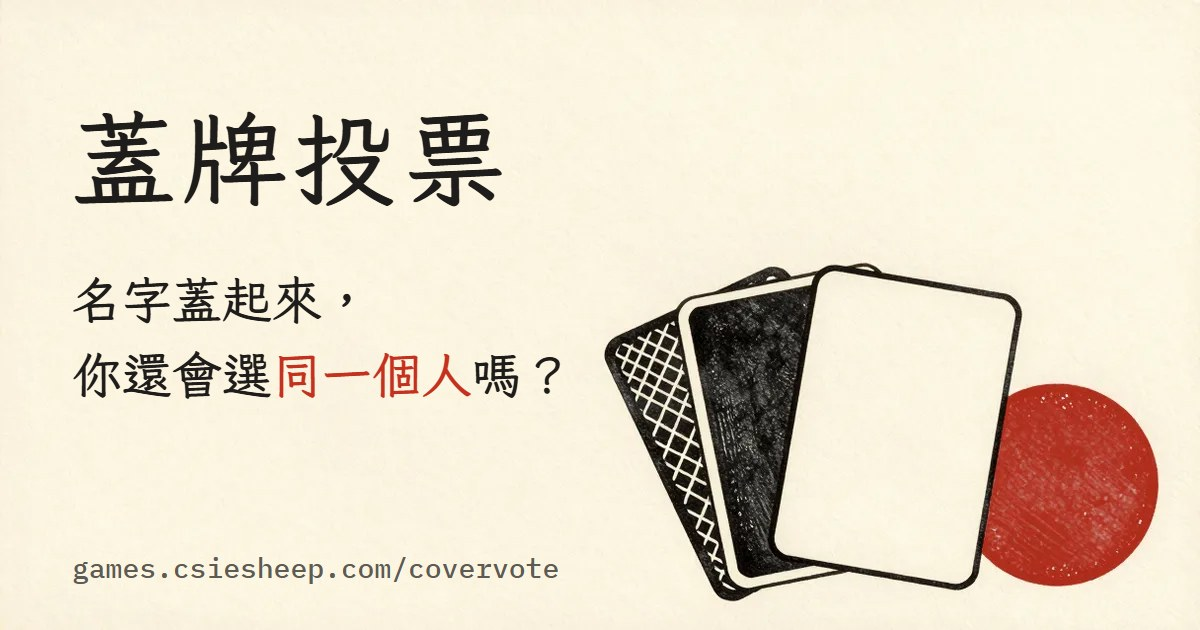
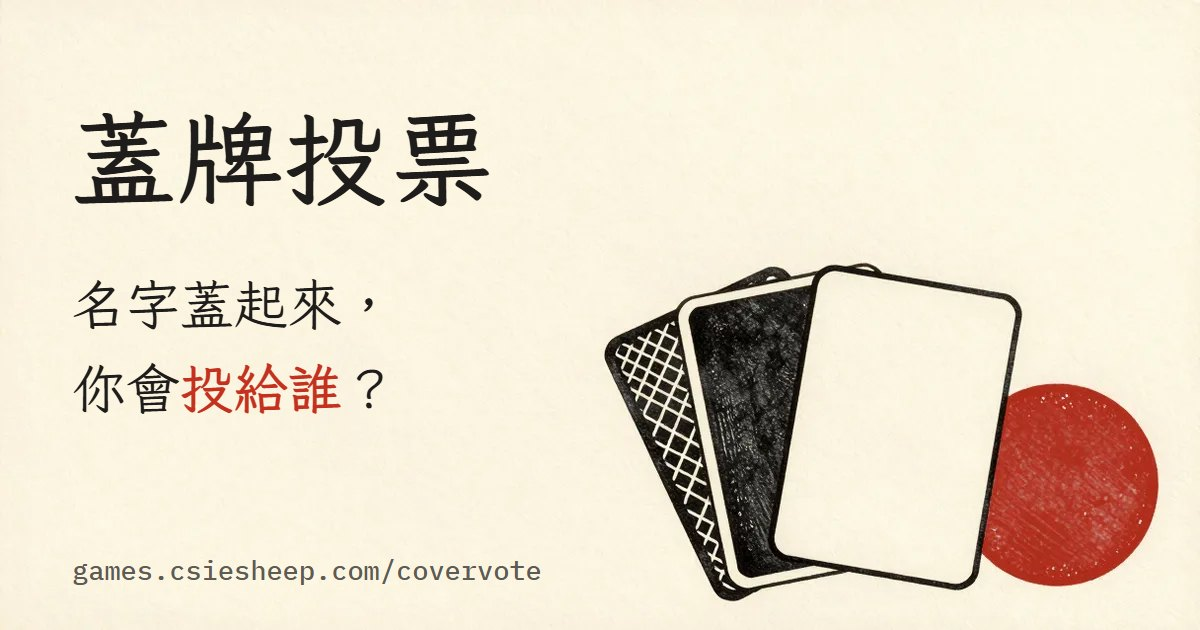
FE #21: Google Analytics (4 no-load cases, flow-only events), privacy page copy and opt-out, new slogan + og.jpg, play-page issue row, speak button in card head

Changed region(s): [[0.0617, 0.4222, 0.4625, 0.6635], [0.1542, 0.181, 0.4317, 0.3317], [0.0617, 0.8746, 0.4625, 0.9349]]

diff --git a/site/app.js b/site/app.js
@@ -2,7 +2,7 @@
 //
 // 約束（issue #3）：
 //  - 開票前不 fetch reveal/（只在 revealNow() 裡，由「開票」按鈕觸發）；DOM 與 localStorage 都沒有作者。
-//  - 傾向、分數、猜作者只存本機（store.js）。不載入任何分析或錄製腳本。
+//  - 傾向、分數、猜作者只存本機（store.js）。不載入錄製腳本；Google Analytics 只在 analytics.js 的條件下載入，事件不帶任何政治資料（#21）。
 //  - 分數一律呼叫 engine/score.mjs，FE 不自己算。候選人的鍵是姓名。
 import { t, initLang, lang, has } from './i18n.js';
 import { raceIdOf, MIN_CLASS, TILES, METRO_KEYS, METRO_ETA, CEC_URL, FULL_URL } from './config.js';
@@ -10,6 +10,7 @@ import { initInternal, initClass, initFontSize, fontSize, setFontSize, FS_SIZES,
 import { initSound, isSoundOn, setSound, sfx } from './sound.js';
 import { hasVoice, syncSpeak, toggleSpeak, stopSpeaking } from './speech.js';
 import { postGuess, postPlay, getHealth, getStats, getClass } from './api.js';
+import { initAnalytics, trackPage, track, isOptedOut, setOptOut } from './analytics.js';
 import { loadRace, loadIssues, fetchReveal, buildPlan, menuOrder, mulberry32, NotFound, initVersion } from './data.js';
 
 initInternal();
@@ -17,6 +18,7 @@ initClass();
 initFontSize();
 initLang();
 initSound();
+initAnalytics();
 // 嵌入模式（?embed=1）：沒有品牌列與頁尾連結，只留一行「完整版 ↗」；聲音維持預設關（initSound 不看這個旗標）。
 // 嵌入模式不改變任何資料流：開票前不 fetch reveal/、guess 先於 reveal、internal=1 照樣生效，都在同一份程式裡。
 const EMBED = isEmbed();
@@ -99,7 +101,7 @@ function parse(){
   return seg;
 }
 const go = hash => { location.hash = hash; };
-let renderSeq = 0, cleanup = null;
+let renderSeq = 0, cleanup = null, lastPv = null;
 
 async function render(){
   const seq = ++renderSeq;
@@ -117,6 +119,8 @@ async function render(){
   const main = document.getElementById('main'); if (main) main.focus({ preventScroll: true });
   if (out.mount) cleanup = out.mount(root) || null;
   syncSpeak(root);
+  const pv = location.hash;
+  if (pv !== lastPv){ lastPv = pv; trackPage(); }   // 只在路由真的換了才算一次瀏覽（字級、重試的重畫不算）
 }
 
 async function route(seg){
@@ -327,9 +331,8 @@ function cardHtml(c, p, i, { guess, tag }) {
   const mode = textMode();
   const text = mode === 'masked' ? p.masked : p.plain;
   return `<div class="pcard" data-pid="${esc(p.id)}" >
-    <div class="pcard-head"><span class="seat" aria-label="${esc(seatOf(i))}">${esc(seatOf(i))}</span>${tag ? `<span class="tag">${esc(tag)}</span>` : ''}<span class="muted num" data-len>${esc(t('play.chars', { n: [...text].length }))}</span></div>
+    <div class="pcard-head"><span class="headl"><span class="seat" aria-label="${esc(seatOf(i))}">${esc(seatOf(i))}</span>${speakBtn(t('speak.btn'), `data-pid="${esc(p.id)}" aria-label="${esc(t('speak.btn') + ' · ' + seatOf(i))}"`)}</span><span class="headr">${tag ? `<span class="tag">${esc(tag)}</span>` : ''}<span class="muted num" data-len>${esc(t('play.chars', { n: [...text].length }))}</span></span></div>
     <div class="pcard-body" data-body>${renderText(text)}</div>
-    <div class="speakrow">${speakBtn(t('speak.btn'), `data-pid="${esc(p.id)}" aria-label="${esc(t('speak.btn') + ' · ' + seatOf(i))}"`)}</div>
     ${rateButtons(c, p, t('play.cardOf', { seat: seatOf(i) }))}
     ${guess ? guessBlock(c, p) : ''}
   </div>`;
@@ -348,8 +351,7 @@ function viewRound(c, n){
   const last = n === rounds.length;
   const body = `
     ${roundSteps(c, n - 1)}
-    <div class="row between"><div class="eyebrow">${esc(t('play.issue'))}</div>${toggleHtml()}</div>
-    <h1 class="mid">${esc(issueLabel(c, r.issueId))}</h1>
+    <div class="issuerow"><h1 class="mid">${esc(issueLabel(c, r.issueId))}</h1>${toggleHtml()}</div>
     ${r.cards.map((p, i) => cardHtml(c, p, i, { guess: true })).join('')}
     <div class="btns"><a class="btn ghost" href="${n > 1 ? `#/${c.key}/play/${n - 1}` : `#/${c.key}/lean`}" style="flex:0 0 38%">${esc(t('play.back'))}</a><a class="btn" id="nextbtn" data-act="next-round" data-n="${n}" href="${nextHash(c, n)}" ${roundDone(c, r) ? '' : 'aria-disabled="true"'}>${esc(last ? t('play.nextLast') : t('play.next'))}</a></div>
     <p class="muted" style="text-align:center" id="roundhint">${roundDone(c, r) ? '' : esc(t('play.hint')) + ' · '}<button class="linkbtn" data-act="skip-round" data-n="${n}">${esc(t('play.skip'))}</button></p>`;
@@ -414,6 +416,7 @@ async function revealNow(c, btn){
     return;
   }
   c.st.done = true; save(c);
+  track('reveal', c.key);
   go(`#/${c.key}/reveal`);
 }
 
@@ -872,7 +875,8 @@ function viewInfo(tab){
   if (tab === 'about') content = `<h1 class="mid">${esc(t('info.about.title'))}</h1><p style="font-size:14px">${esc(t('info.about.body'))}</p>`;
   if (tab === 'privacy') content = `<h1 class="mid">${esc(t('info.privacy.title'))}</h1><table><tr><th>${esc(t('info.privacy.th1'))}</th><th>${esc(t('info.privacy.th2'))}</th></tr>`
     + [1, 2, 3, 4].map(i => `<tr><td>${esc(t('info.privacy.r' + i + 'a'))}</td><td>${esc(t('info.privacy.r' + i + 'b'))}</td></tr>`).join('')
-    + `</table><p class="muted">${esc(t('info.privacy.fonts'))}</p><p class="muted">${esc(t('info.privacy.note'))}</p>`;
+    + `</table><p class="muted">${esc(t('info.privacy.fonts'))}</p><p class="muted">${esc(t('info.privacy.note'))}</p>`
+    + `<button type="button" class="btn ghost" data-act="optout" aria-pressed="${isOptedOut()}">${esc(t('info.privacy.optout'))}</button><p class="muted" role="status" id="optoutmsg">${isOptedOut() ? esc(t('info.privacy.optoutOn')) : ''}</p>`;
   return { html: page(bar(t('brand'), t('info.meta')), `<div class="row">${chips}</div>${content}<a class="btn ghost" href="#/">${esc(t('common.home'))}</a>`, footer()) };
 }
 
@@ -906,7 +910,7 @@ async function viewMedia(){
     <div class="eyebrow">${esc(t('media.previewTitle'))}</div>
     <iframe id="mediaprev" class="prev" src="${esc(src)}" title="${esc(t('media.iframeTitle'))}" loading="lazy"></iframe>
     <div class="eyebrow">${esc(t('media.contactTitle'))}</div>
-    <p>${esc(t('media.contactBody'))}<span class="num">${esc(t('media.contactMail'))}</span> <span class="muted">${esc(t('media.contactTodo'))}</span></p>`;
+    <p>${esc(t('media.contactBody'))}<span class="num">${esc(t('media.contactMail'))}</span></p>`;
   return {
     html: page(bar(t('brand'), t('media.meta')), body + `<a class="btn ghost" href="#/">${esc(t('common.home'))}</a>`, footer()),
     mount(el){
@@ -971,7 +975,7 @@ root.addEventListener('click', async e => {
       break;
     }
     case 'pick': {
-      homePick = el.dataset.key; sfx('tap');
+      homePick = el.dataset.key; sfx('tap'); track('select_city', homePick);
       setPressed([...root.querySelectorAll('.tile.live')], b => b.dataset.key === homePick);
       const sb = document.getElementById('startbtn'); sb.textContent = startLabel(); sb.removeAttribute('aria-disabled'); sb.href = '#/' + homePick;
       showPlays();
@@ -1009,7 +1013,10 @@ root.addEventListener('click', async e => {
     case 'more': {
       root.querySelectorAll('[data-more]').forEach(n => n.hidden = false); el.hidden = true; break;
     }
-    case 'lean-next': sfx('shuffle'); break;
+    case 'lean-next': sfx('shuffle'); if (c) track('game_start', c.key); break;
+    case 'download': if (c && el.getAttribute('aria-disabled') !== 'true') track('share', c.key); break;
+    case 'line': if (c) track('share', c.key); break;
+    case 'optout': { const off = !isOptedOut(); setOptOut(off); sfx('tap'); render(); break; }
     case 'textmode': {
       setTextMode(el.dataset.v); sfx('tap');
       root.querySelectorAll('[data-act=textmode]').forEach(b => { const on = b.dataset.v === el.dataset.v; b.classList.toggle('on', on); b.setAttribute('aria-pressed', on); });
@@ -1081,6 +1088,7 @@ root.addEventListener('click', async e => {
     case 'copy': {
       if (!c) break;
       const url = shareUrl(c);
+      track('share', c.key);
       try { await navigator.clipboard.writeText(url); toast(t('share.copied')); }
       catch {
         try { const ta = document.createElement('textarea'); ta.value = url; document.body.appendChild(ta); ta.select(); const ok = document.execCommand('copy'); ta.remove(); toast(t(ok ? 'share.copied' : 'share.copyFail')); }

diff --git a/site/analytics.js b/site/analytics.js
@@ -1,0 +1,95 @@
+// site/analytics.js — Google Analytics 4（issue #21）。FE 所有。
+//
+// 四種情況「根本不載入」gtag.js（連 window.gtag 都不定義）：
+//   1) internal=1（store.js isInternal：網址或 sessionStorage）  2) 嵌入模式 ?embed=1
+//   3) 班級連結（有合格的 ?class=）                              4) 玩家在隱私頁按了「不要統計我」
+// 事件只有流程：page_view / select_city / game_start / reveal / share。
+// 參數只准 city（縣市代碼，來自 config.js 的 TILES）；page_path 只准縣市代碼與步驟名。
+// 不送：傾向、分數、猜測、verdict、候選人名字、班級代碼。track() 自己擋，呼叫端傳什麼都一樣。
+import { TILES } from './config.js';
+import { isInternal, isEmbed, classCode, getItem, setItem, removeItem } from './store.js';
+
+export const GA4_ID = 'G-Q4VS3P3T58';
+const OPT_KEY = 'covervote:ga-off';
+const CITIES = new Set(TILES.map(x => x.key));
+const STEPS = new Set(['health', 'lean', 'play', 'bonus', 'important', 'reveal', 'result', 'detail', 'share']);
+const INFO = new Set(['method', 'sources', 'privacy', 'about']);
+const EVENTS = new Set(['select_city', 'game_start', 'reveal', 'share']);
+
+window.__events = window.__events || [];   // 本來會送出的事件，只在記憶體，給驗收看
+let loaded = false;
+
+export const isOptedOut = () => getItem(OPT_KEY) === '1';
+// 四種情況任何一種成立 = 不載入、不送
+export const gaAllowed = () => !isInternal() && !isEmbed() && !classCode() && !isOptedOut();
+
+// route（#/ 之後）→ 只含縣市代碼與步驟名的路徑；其餘（班級代碼、未知片段）一律丟掉。
+export function safeRoute(hash){
+  const seg = String(hash || '').replace(/^#\/?/, '').split('/').filter(Boolean);
+  if (!seg.length) return '';
+  if (seg[0] === 'info') return 'info/' + (INFO.has(seg[1]) ? seg[1] : 'method');
+  if (seg[0] === 'embed') return 'embed';
+  if (seg[0] === 'class') return 'class';   // #/class/<班級代碼> 的代碼不送
+  if (!CITIES.has(seg[0])) return '';
+  const out = [seg[0]];
+  if (STEPS.has(seg[1])){ out.push(seg[1]); if (seg[1] === 'play' && /^\d{1,2}$/.test(seg[2] || '')) out.push(seg[2]); }
+  return out.join('/');
+}
+
+function inject(){
+  const s = document.createElement('script');
+  s.async = true; s.dataset.ga4 = '1';
+  s.src = 'https://www.googletagmanager.com/gtag/js?id=' + encodeURIComponent(GA4_ID);
+  document.head.append(s);
+}
+
+function load(){
+  if (loaded || !gaAllowed()) return;
+  loaded = true;
+  window['ga-disable-' + GA4_ID] = false;
+  window.dataLayer = window.dataLayer || [];
+  window.gtag = function(){ window.dataLayer.push(arguments); };
+  window.gtag('js', new Date());
+  window.gtag('config', GA4_ID, { allow_google_signals: false, allow_ad_personalization_signals: false, send_page_view: false });
+  // 不擋畫面：config 先進 dataLayer（不花請求），gtag.js 等 load 之後、瀏覽器閒下來才插入。
+  const go = () => (window.requestIdleCallback ? window.requestIdleCallback(inject, { timeout: 4000 }) : setTimeout(inject, 1500));
+  if (document.readyState === 'complete') go(); else window.addEventListener('load', go, { once: true });
+}
+
+function send(name, params){
+  window.__events.push({ name, ...params });
+  window.gtag('event', name, params);
+}
+
+export function initAnalytics(){ load(); }
+
+// hash 路由每換一頁呼叫一次。page_location 不帶 query（class／internal 都不會出去）。
+export function trackPage(){
+  if (!gaAllowed()) return;
+  load();
+  if (!loaded) return;
+  const r = safeRoute(location.hash);
+  const path = '/covervote/#/' + r;
+  send('page_view', { page_path: path, page_location: location.origin + path, page_title: document.title });
+}
+
+// 事件：名字要在白名單、city 要是已知縣市代碼；其餘參數一律不收。
+export function track(name, city){
+  try {
+    if (!EVENTS.has(name) || !gaAllowed() || !loaded) return;
+    const params = CITIES.has(city) ? { city } : {};
+    send(name, params);
+  } catch {}
+}
+
+// 隱私頁開關。關：立刻停送（本頁已載入的 gtag.js 也被 ga-disable 停掉），之後不再載入；開：恢復。
+export function setOptOut(off){
+  if (off){
+    setItem(OPT_KEY, '1');
+    window['ga-disable-' + GA4_ID] = true;
+  } else {
+    removeItem(OPT_KEY);
+    window['ga-disable-' + GA4_ID] = false;
+    trackPage();
+  }
+}

diff --git a/site/lang/en.js b/site/lang/en.js
@@ -12,7 +12,7 @@ export default {
   'common.home': 'Home',
   'common.back': 'Back',
 
-  'home.title': 'Names covered.\nWould you still pick the same person?',
+  'home.title': 'With the names covered,\nwho would you vote for?',
   'home.sub': 'One topic per round: rate the platform lines with names hidden. Then flip the cards and see who fits you.',
   'home.heroAlt': 'Face-down cards on a voting desk, a hand flipping one over',
   'home.mapLabel': 'City map',
@@ -87,7 +87,6 @@ export default {
   'lean.lock': 'Who you pick stays in this browser and is never sent.',
   'lean.next': 'Next',
 
-  'play.issue': 'Topic',
   'play.textVersion': 'Text version',
   'play.plain': 'Plain',
   'play.masked': 'Masked',
@@ -236,11 +235,13 @@ export default {
   'info.privacy.th1': 'Data',
   'info.privacy.th2': 'Where',
   'info.privacy.r1a': 'Your lean, your ratings, the topics you mark important', 'info.privacy.r1b': 'Only in your browser',
-  'info.privacy.r2a': 'Analytics or recording scripts', 'info.privacy.r2b': 'We use none; no screen recording',
+  'info.privacy.r2a': 'Google Analytics (traffic statistics)', 'info.privacy.r2b': 'Used to see how many people come, from where, and how far they get. It never receives your lean, scores, guesses or any candidate name, and nothing is screen-recorded. Not loaded in embeds or class links. You can turn it off on this page.',
   'info.privacy.r3a': 'The author you guessed for each passage (only the passage ID and the name you guessed, not who you are); the outcome type of the game (same / different / not comparable); the class code, if you play from a class link', 'info.privacy.r3b': 'Sent when you press Reveal and when the result appears; the server only adds up totals',
-  'info.privacy.r4a': 'Accounts, cookies', 'info.privacy.r4b': 'None',
+  'info.privacy.r4a': 'Accounts, cookies', 'info.privacy.r4b': 'No accounts. Google Analytics sets a cookie in your browser to tell returning visitors apart; we set no cookies of our own.',
   'info.privacy.fonts': 'Fonts are served by Google Fonts; when the page opens, your browser requests the font files from Google.',
-  'info.privacy.note': 'The site is hosted on Cloudflare, which, like any website host, can see your IP address when you connect; we do not log or store it. Your lean, ratings, progress and your sound and big-text preferences are kept in your browser\'s local storage. Clearing site data removes them all.',
+  'info.privacy.note': 'Google Analytics receives your IP address but does not store it; we turned off ad personalization and Google signals. The site is hosted on Cloudflare, which, like any website host, can see your IP address when you connect; we do not log or store it. Your lean, ratings, progress and your sound and big-text preferences are kept in your browser\'s local storage. Clearing site data removes them all.',
+  'info.privacy.optout': "Don't count me",
+  'info.privacy.optoutOn': 'Traffic statistics are off. This phone will not load Google Analytics from now on.',
   'info.about.title': 'About',
   'info.about.body': 'Cover Vote is a small game: say who you lean toward, rate each passage with names hidden, and see whether your lean and your best fit are the same person. The fit score only reflects the ratings you gave this round; it is not a judgment of any candidate and not voting advice. Free: no charge for players, teachers or media embeds. We take no money from any party or candidate.',
   "foot.media": "For media",
@@ -261,7 +262,6 @@ export default {
   "media.contactTitle": "Partnerships or custom work",
   "media.contactBody": "For partnerships or custom work, write to:",
   "media.contactMail": "csiegoat@gmail.com",
-  "media.contactTodo": "",
   "media.iframeTitle": "Cover Vote",
   "foot.class": "For classrooms",
   "class.meta": "Classroom",

diff --git a/site/index.html b/site/index.html
@@ -10,17 +10,17 @@
 <!-- 連結預覽（#19）：LINE／Facebook 轉貼用。圖是靜態的 assets/og.jpg（只有品牌與標語，不放姓名、黨名）；網址要絕對。 -->
 <meta property="og:type" content="website">
 <meta property="og:site_name" content="蓋牌投票">
-<meta property="og:title" content="蓋牌投票｜名字蓋起來，你還會選同一個人嗎？">
+<meta property="og:title" content="蓋牌投票｜名字蓋起來，你會投給誰？">
 <meta property="og:description" content="遮住名字給政見打分，看看你傾向的人和你契合的人是不是同一個。">
 <meta property="og:url" content="https://games.csiesheep.com/covervote/">
 <meta property="og:image" content="https://games.csiesheep.com/covervote/assets/og.jpg">
 <meta property="og:image:type" content="image/jpeg">
 <meta property="og:image:width" content="1200">
 <meta property="og:image:height" content="630">
-<meta property="og:image:alt" content="蓋牌投票：名字蓋起來，你還會選同一個人嗎？">
+<meta property="og:image:alt" content="蓋牌投票：名字蓋起來，你會投給誰？">
 <meta property="og:locale" content="zh_TW">
 <meta name="twitter:card" content="summary_large_image">
-<meta name="twitter:title" content="蓋牌投票｜名字蓋起來，你還會選同一個人嗎？">
+<meta name="twitter:title" content="蓋牌投票｜名字蓋起來，你會投給誰？">
 <meta name="twitter:description" content="遮住名字給政見打分，看看你傾向的人和你契合的人是不是同一個。">
 <meta name="twitter:image" content="https://games.csiesheep.com/covervote/assets/og.jpg">
 <link rel="preconnect" href="https://fonts.googleapis.com">
@@ -29,7 +29,7 @@
      1) 楷書小子集：只含固定字串（品牌、標語、各頁標題、縣市名、甲乙丙…），這支先載、先換。
         字從 site/lang/zh-Hant.js 的 brand、home.title、*.title、lean.q、tile.*、seats 取，再加 市縣長。語言檔改了這幾個鍵就要重算 text=。
      2) 完整楷書（動態標題：議題名、候選人名）＋ IBM Plex Mono：等 load 之後才升級成 stylesheet。 -->
-<link rel="preload" as="style" href="https://fonts.googleapis.com/css2?family=LXGW+WenKai+TC:wght@700&display=swap&text=蓋牌投票名字起來，你還會選同一個人嗎？的政見在整理連江台北基隆桃園新竹市縣宜蘭苗栗中花蓮金門彰化南雲林嘉東澎湖高雄屏這次沒收錄目前比較傾向給誰甲乙丙丁戊己庚辛壬癸些只有位候提出哪議題對特別重要翻：玩過10天統計暫停顯示真遮住了分享圖卡契合數怎麼算資料源我們集什關於把局放進文章公民課用長" onload="this.onload=null;this.rel='stylesheet'">
+<link rel="preload" as="style" href="https://fonts.googleapis.com/css2?family=LXGW+WenKai+TC:wght@700&display=swap&text=蓋牌投票名字起來，你會投給誰？還一選人嗎的政見在整理連江台北基隆桃園新竹市縣宜蘭苗栗中花蓮金門彰化南雲林嘉東澎湖高雄屏這次沒收錄目前比較傾向給誰甲乙丙丁戊己庚辛壬癸些只有位候提出哪議題對特別重要翻：玩過10天統計暫停顯示真遮住了分享圖卡契合數怎麼算資料源我們集什關於把局放進文章公民課用長" onload="this.onload=null;this.rel='stylesheet'">
 <link rel="preload" as="style" href="https://fonts.googleapis.com/css2?family=LXGW+WenKai+TC:wght@400;700&family=IBM+Plex+Mono:wght@500;600&display=swap" onload="var l=this;l.onload=null;function g(){l.rel='stylesheet'}document.readyState==='complete'?setTimeout(g,0):addEventListener('load',g)">
 <noscript>
 <link rel="stylesheet" href="https://fonts.googleapis.com/css2?family=LXGW+WenKai+TC:wght@400;700&family=IBM+Plex+Mono:wght@500;600&display=swap">

diff --git a/site/lang/zh-Hant.js b/site/lang/zh-Hant.js
@@ -14,7 +14,7 @@ export default {
   'common.back': '返回',
 
   // A1 首頁
-  'home.title': '名字蓋起來，\n你還會選同一個人嗎？',
+  'home.title': '名字蓋起來，\n你會投給誰？',
   'home.sub': '每輪一個議題，遮住名字給政見打分。最後翻牌，看你契合的是誰。',
   'home.heroAlt': '投票桌上一排蓋著的牌，一隻手正翻開其中一張',
   'home.mapLabel': '縣市地圖',
@@ -94,7 +94,6 @@ export default {
   'lean.next': '下一步',
 
   // B2 打分
-  'play.issue': '議題',
   'play.textVersion': '文字版本',
   'play.plain': '白話',
   'play.masked': '遮蔽版',
@@ -250,11 +249,13 @@ export default {
   'info.privacy.th1': '資料',
   'info.privacy.th2': '存哪',
   'info.privacy.r1a': '你的傾向、每段分數、你標的重要議題', 'info.privacy.r1b': '只在你的瀏覽器',
-  'info.privacy.r2a': '分析或錄製腳本', 'info.privacy.r2b': '我們沒有放，不錄製畫面',
+  'info.privacy.r2a': 'Google Analytics（流量統計）', 'info.privacy.r2b': '用來看多少人來、從哪裡來、玩到哪一步。不送你的傾向、分數、猜測或任何候選人名字；不錄製畫面。嵌入版、班級連結不載入。可以在這頁關掉。',
   'info.privacy.r3a': '你猜的作者（每段只送段落編號和你猜的人名，不含你是誰）；這一局的結果類型（同一人／不同人／無從比較）；用班級連結玩的話，還有班級代碼', 'info.privacy.r3b': '按「開票」和看到結果時送出，伺服器只累加總數',
-  'info.privacy.r4a': '帳號、cookie', 'info.privacy.r4b': '沒有',
+  'info.privacy.r4a': '帳號、cookie', 'info.privacy.r4b': '沒有帳號。Google Analytics 會在你的瀏覽器設 cookie 來分辨回訪；我們自己不設 cookie。',
   'info.privacy.fonts': '字型由 Google Fonts 提供，開啟網頁時瀏覽器會向 Google 請求字型檔。',
-  'info.privacy.note': '網站由 Cloudflare 代管，連線時它和所有網站一樣看得到你的 IP；我們不記錄、不儲存。傾向、分數、進度、聲音與大字的偏好都存在你瀏覽器的本機儲存空間，清除網站資料就會全部消失。',
+  'info.privacy.note': 'Google Analytics 會收到你的 IP，但不儲存；我們關閉了廣告個人化與 Google 信號。網站由 Cloudflare 代管，連線時它和所有網站一樣看得到你的 IP；我們不記錄、不儲存。傾向、分數、進度、聲音與大字的偏好都存在你瀏覽器的本機儲存空間，清除網站資料就會全部消失。',
+  'info.privacy.optout': '不要統計我',
+  'info.privacy.optoutOn': '已關閉流量統計，這支手機之後不會載入 Google Analytics。',
   'info.about.title': '關於',
   'info.about.body': '蓋牌投票是一個小遊戲：先說你想投誰，再遮住名字給每段政見打分，開票時看你傾向的人和你契合的人是不是同一個。契合分數只反映你這局打的分，不是對任何候選人的評價，也不是投票建議。免費：玩家、老師、媒體嵌入都不用付費。不收任何政黨或候選人的錢。',
   "foot.media": "給媒體",
@@ -275,7 +276,6 @@ export default {
   "media.contactTitle": "合作或客製",
   "media.contactBody": "合作或客製請來信：",
   "media.contactMail": "csiegoat@gmail.com",
-  "media.contactTodo": "",
   "media.iframeTitle": "蓋牌投票",
   "foot.class": "課堂使用",
   "class.meta": "課堂使用",

diff --git a/site/app.css b/site/app.css
@@ -98,6 +98,10 @@ details summary{cursor:pointer}
 .toggle{display:inline-flex;border:1px solid var(--rule);border-radius:8px;overflow:hidden;font-size:calc(13px*var(--fs))}
 .toggle button{border:0;background:transparent;padding:6px 12px;min-height:calc(34px*var(--fs))}
 .toggle button.on{background:var(--ink);color:var(--paper)}
+.toggle button{white-space:nowrap}
+.issuerow{display:flex;align-items:flex-start;justify-content:space-between;gap:10px}
+.issuerow .mid{flex:1 1 auto;min-width:0;margin:0;overflow-wrap:anywhere}
+.issuerow .toggle{flex:none}
 .rate{display:grid;grid-template-columns:repeat(5,1fr);gap:6px;padding:0 12px 12px}
 .rate button{border:1px solid var(--rule);background:transparent;border-radius:10px;padding:8px 0 6px;display:flex;flex-direction:column;align-items:center;gap:2px;font-size:calc(11px*var(--fs));color:var(--ink-2);min-height:calc(56px*var(--fs));line-height:1.25}
 .rate button b{font-family:var(--f-num);font-size:calc(16px*var(--fs));color:var(--ink);font-weight:600}
@@ -205,6 +209,9 @@ html.embed img,html.embed canvas{max-width:100%}
 /* 唸給你聽（#15）：每段政見下面一顆；沒有 zh-TW 聲音時整顆 hidden（[hidden] 規則在最上面） */
 .speakrow{padding:0 12px 10px}
 .chip.speak{border-color:var(--ink);font-weight:500}
+.headl,.headr{display:flex;align-items:center;gap:8px;min-width:0}
+.headr{flex:none}
+.pcard-head .chip.speak{min-height:44px;min-width:44px;padding:0 12px;white-space:nowrap;justify-content:center}
 .chip.speak[aria-pressed="true"]{background:var(--ink);color:var(--paper)}
 .fsz{border:1px solid var(--rule);border-radius:999px;background:transparent;padding:0 10px;font-weight:700;min-height:calc(32px*var(--fs));font-size:calc(13px*var(--fs));flex:none;white-space:nowrap}
 
